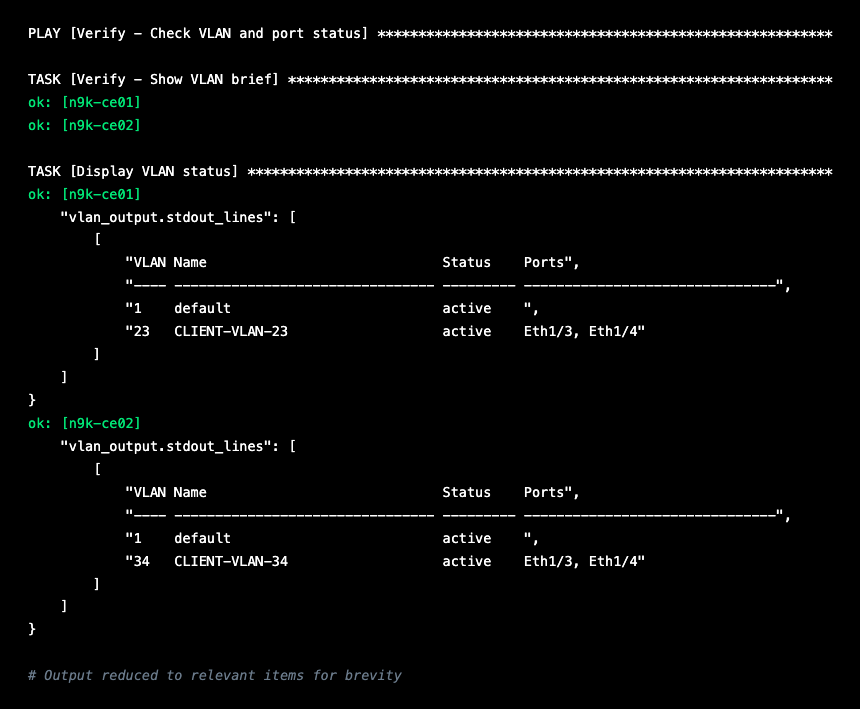
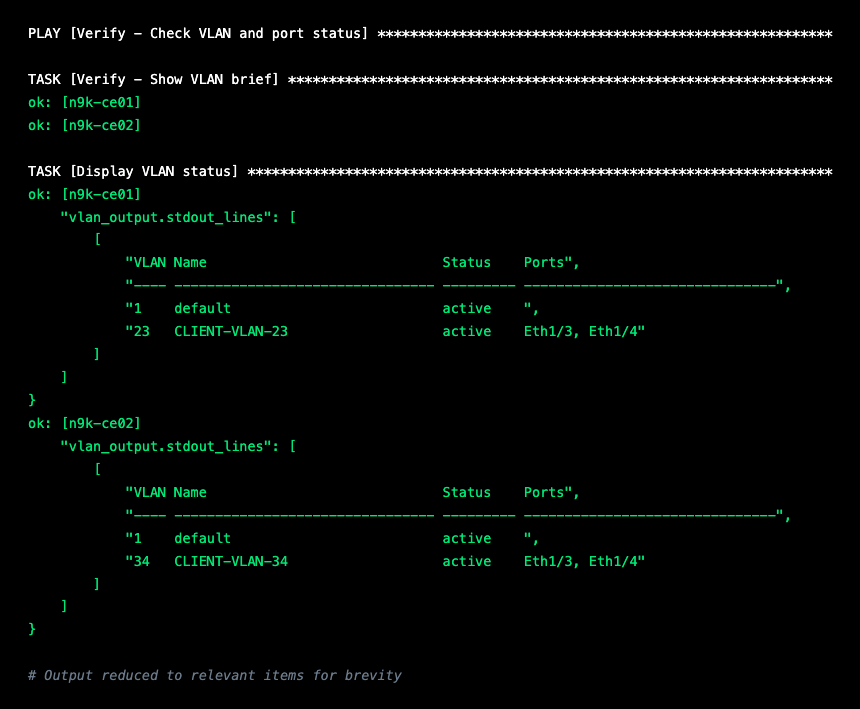
Deployed a7a4c8e with MkDocs version: 1.6.1

diff --git a/images/task1-verify-output.html b/images/task1-verify-output.html
@@ -39,25 +39,25 @@
 
 <span class="wh">TASK [Display VLAN status] ************************************************************************</span>
 <span class="ok">ok: [n9k-ce01]</span> =&gt; {
-    <span class="wh">"vlan_output.stdout_lines": [</span>
-        <span class="wh">[</span>
-            <span class="wh">"VLAN Name                             Status    Ports",</span>
-            <span class="wh">"---- -------------------------------- --------- -------------------------------",</span>
-            <span class="wh">"1    default                          active    ",</span>
-            <span class="wh">"23   CLIENT-VLAN-23                   active    Eth1/3, Eth1/4"</span>
-        <span class="wh">]</span>
-    <span class="wh">]</span>
-<span class="wh">}</span>
+    <span class="ok">"vlan_output.stdout_lines": [</span>
+        <span class="ok">[</span>
+            <span class="ok">"VLAN Name                             Status    Ports",</span>
+            <span class="ok">"---- -------------------------------- --------- -------------------------------",</span>
+            <span class="ok">"1    default                          active    ",</span>
+            <span class="ok">"23   CLIENT-VLAN-23                   active    Eth1/3, Eth1/4"</span>
+        <span class="ok">]</span>
+    <span class="ok">]</span>
+<span class="ok">}</span>
 <span class="ok">ok: [n9k-ce02]</span> =&gt; {
-    <span class="wh">"vlan_output.stdout_lines": [</span>
-        <span class="wh">[</span>
-            <span class="wh">"VLAN Name                             Status    Ports",</span>
-            <span class="wh">"---- -------------------------------- --------- -------------------------------",</span>
-            <span class="wh">"1    default                          active    ",</span>
-            <span class="wh">"34   CLIENT-VLAN-34                   active    Eth1/3, Eth1/4"</span>
-        <span class="wh">]</span>
-    <span class="wh">]</span>
-<span class="wh">}</span>
+    <span class="ok">"vlan_output.stdout_lines": [</span>
+        <span class="ok">[</span>
+            <span class="ok">"VLAN Name                             Status    Ports",</span>
+            <span class="ok">"---- -------------------------------- --------- -------------------------------",</span>
+            <span class="ok">"1    default                          active    ",</span>
+            <span class="ok">"34   CLIENT-VLAN-34                   active    Eth1/3, Eth1/4"</span>
+        <span class="ok">]</span>
+    <span class="ok">]</span>
+<span class="ok">}</span>
 
 <span class="cm"># Output reduced to relevant items for brevity</span></pre>
 </div>